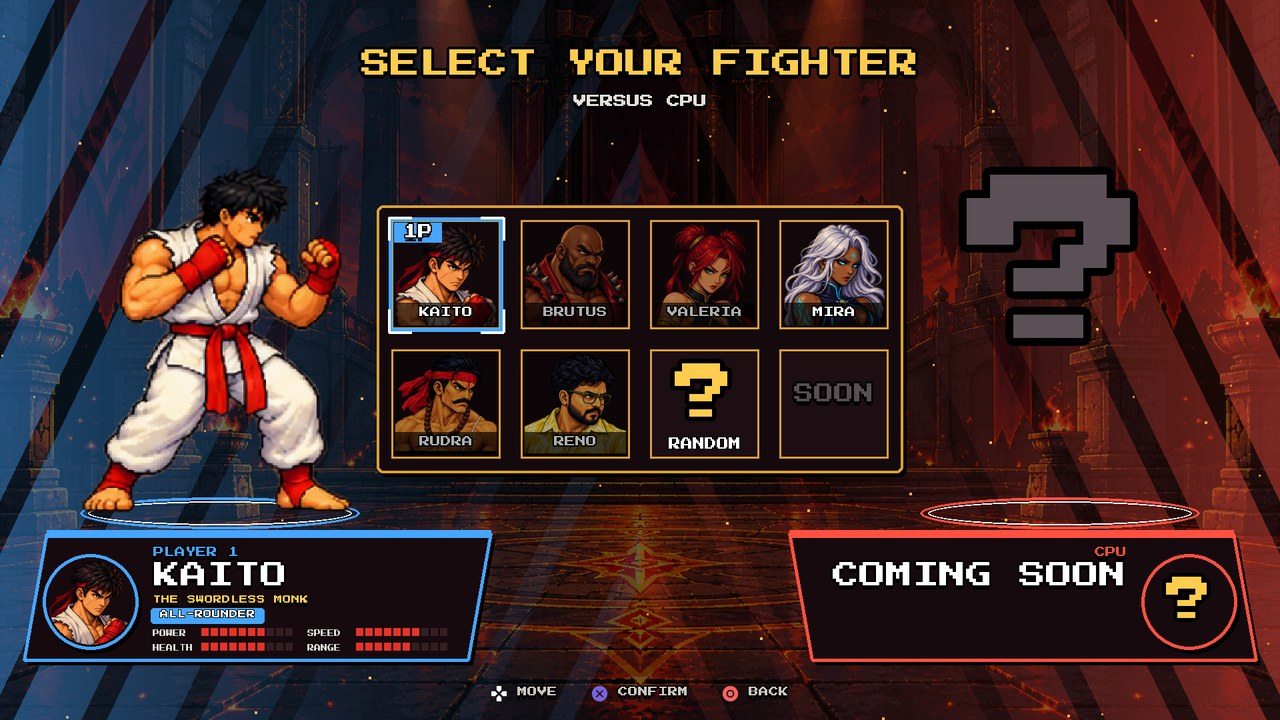
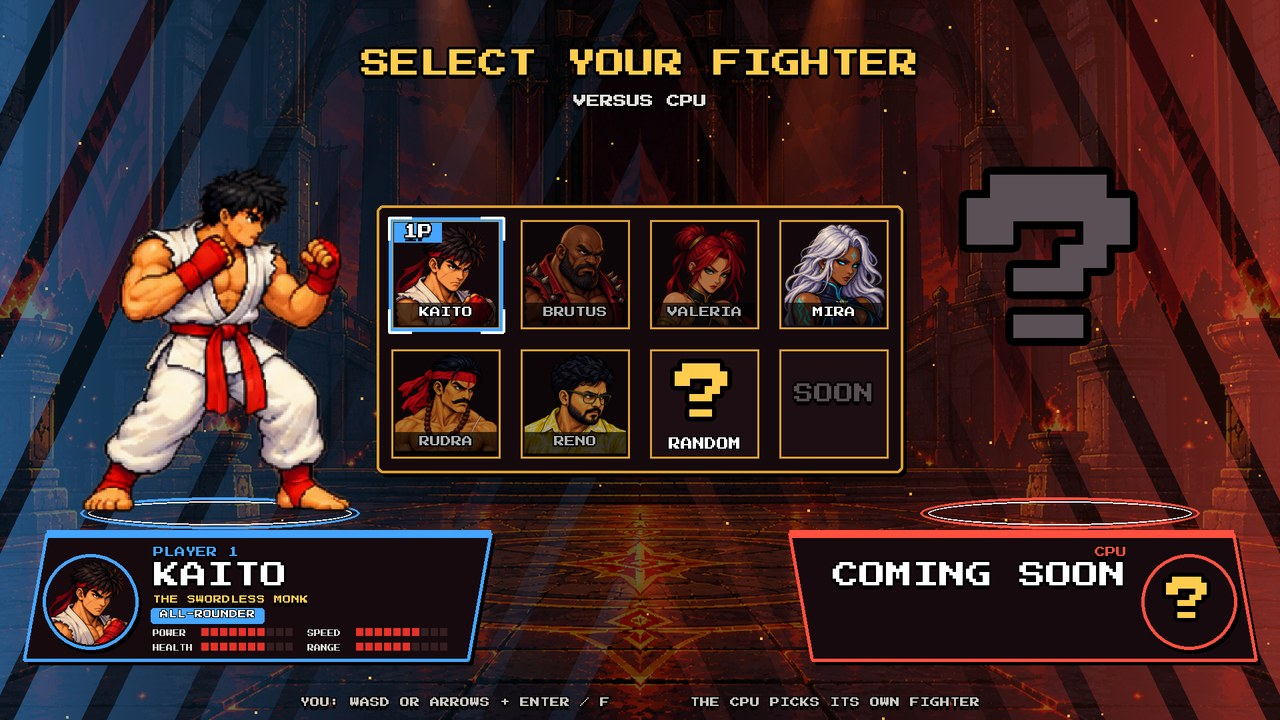
feat: add auto-dependency installer, self-healing asset downloader, clean controller-free screenshots, and comprehensive release details

Changed region(s): [[0.2188, 0.9472, 0.7812, 1.0]]

diff --git a/ember/downloader.py b/ember/downloader.py
@@ -1,0 +1,110 @@
+"""Asset recovery and dependency check for Ember Tournament.
+If required data assets or dependencies are missing (e.g. user moved .exe standalone
+or cloned without assets), this module automatically recovers and downloads them.
+"""
+import os
+import sys
+import urllib.request
+import zipfile
+import tempfile
+
+
+RELEASE_ZIP_URL = "https://github.com/skrehanahamed/EmberTournament/releases/download/latest/EmberTournament-Windows-x64.zip"
+FALLBACK_REPO_ZIP = "https://github.com/skrehanahamed/EmberTournament/archive/refs/heads/main.zip"
+
+
+def _notify_user(title, message):
+    """Display native message box on Windows or print to terminal."""
+    if sys.platform == "win32":
+        try:
+            import ctypes
+            # MB_OKCANCEL | MB_ICONINFORMATION = 0x1 | 0x40
+            return ctypes.windll.user32.MessageBoxW(0, message, title, 0x1 | 0x40) == 1
+        except Exception:
+            pass
+    print(f"[{title}] {message}")
+    return True
+
+
+def ensure_dependencies():
+    """Ensure runtime dependencies are installed if running from Python source."""
+    try:
+        import pygame
+    except ImportError:
+        print("[Ember Tournament] 'pygame-ce' is required but not installed.")
+        print("[Ember Tournament] Attempting automatic installation via pip...")
+        try:
+            import subprocess
+            subprocess.check_call([sys.executable, "-m", "pip", "install", "pygame-ce"])
+            print("[Ember Tournament] Successfully installed pygame-ce!")
+        except Exception as e:
+            print(f"[Ember Tournament] Automatic installation failed: {e}")
+            print("Please run: pip install pygame-ce")
+
+
+def ensure_assets(data_dir):
+    """Verify that the data directory and key assets exist. If not, auto-download them."""
+    marker = os.path.join(data_dir, "story.json")
+    if os.path.exists(data_dir) and os.path.exists(marker):
+        return data_dir
+
+    target_dir = os.path.dirname(data_dir)
+    if not os.access(target_dir, os.W_OK):
+        target_dir = os.path.dirname(sys.executable) if getattr(sys, "frozen", False) else os.getcwd()
+
+    proceed = _notify_user(
+        "Ember Tournament - Missing Assets",
+        "Required game data assets were not found in this folder.\n\n"
+        "Ember Tournament will now automatically download and extract the required assets from GitHub.\n\n"
+        "Click OK to begin automatic download."
+    )
+    if not proceed:
+        return data_dir
+
+    print("[Ember Tournament] Downloading game assets from GitHub...")
+    temp_zip = os.path.join(tempfile.gettempdir(), "ember_assets_temp.zip")
+
+    urls = [RELEASE_ZIP_URL, FALLBACK_REPO_ZIP]
+    download_success = False
+
+    for url in urls:
+        try:
+            print(f"[Ember Tournament] Connecting to {url}...")
+            urllib.request.urlretrieve(url, temp_zip)
+            download_success = True
+            break
+        except Exception as err:
+            print(f"[Ember Tournament] Download attempt failed from {url}: {err}")
+
+    if not download_success or not os.path.exists(temp_zip):
+        _notify_user("Ember Tournament - Download Error", "Failed to download assets automatically. Please verify your internet connection or download EmberTournament-Windows-x64.zip manually from GitHub.")
+        return data_dir
+
+    print("[Ember Tournament] Extracting assets...")
+    try:
+        with zipfile.ZipFile(temp_zip, "r") as zf:
+            for member in zf.namelist():
+                # Extract any data/ files into the target data directory
+                if "data/" in member:
+                    parts = member.split("data/")
+                    rel_path = parts[-1]
+                    if not rel_path:
+                        continue
+                    out_path = os.path.join(data_dir, rel_path)
+                    if member.endswith("/"):
+                        os.makedirs(out_path, exist_ok=True)
+                    else:
+                        os.makedirs(os.path.dirname(out_path), exist_ok=True)
+                        with open(out_path, "wb") as f_out, zf.open(member) as f_in:
+                            f_out.write(f_in.read())
+        print(f"[Ember Tournament] Assets successfully restored to {data_dir}!")
+    except Exception as e:
+        print(f"[Ember Tournament] Extraction error: {e}")
+    finally:
+        if os.path.exists(temp_zip):
+            try:
+                os.remove(temp_zip)
+            except OSError:
+                pass
+
+    return data_dir

diff --git a/main.py b/main.py
@@ -1,4 +1,22 @@
 #!/usr/bin/env python3
+"""Ember Tournament - Main Entry Point.
+Automatically verifies runtime dependencies and game assets, recovering missing files if needed.
+"""
+import sys
+
+# 1. Verify runtime dependencies
+try:
+    import pygame
+except ImportError:
+    from ember.downloader import ensure_dependencies
+    ensure_dependencies()
+
+# 2. Verify game assets
+from ember.constants import DATA
+from ember.downloader import ensure_assets
+ensure_assets(DATA)
+
+# 3. Launch game
 from ember.app import main
 
 if __name__ == "__main__":

diff --git a/README.md b/README.md
@@ -32,25 +32,44 @@
 
 ## Releases and Downloads
 
-Pre-compiled Windows builds are automatically compiled and published through GitHub Actions. Python installation is not required to play.
+Pre-compiled Windows binaries are automatically packaged and published via GitHub Actions. Python installation is not required.
 
-* **Latest Release**: [Download from GitHub Releases](https://github.com/skrehanahamed/EmberTournament/releases/latest)
-* **All Releases & Build Artifacts**: [View All Releases](https://github.com/skrehanahamed/EmberTournament/releases)
+* **Latest Release**: [Download Ember Tournament (Latest Build)](https://github.com/skrehanahamed/EmberTournament/releases/latest)
+* **All Releases and Changelog**: [View All Releases](https://github.com/skrehanahamed/EmberTournament/releases)
 
-### Available Release Files
+### Available Packages
 
-| File | Description | Recommended For |
+| Package | Description | Recommended For |
 | :--- | :--- | :--- |
-| **`EmberTournament-Windows-x64.zip`** | Complete standalone package with game executable, assets, audio, and dependencies. | **Recommended**: Extract and double-click `EmberTournament.exe` to play. |
-| **`EmberTournament.exe`** | Standalone Windows application binary. | Direct executable file. |
+| **`EmberTournament-Windows-x64.zip`** | Full standalone package. Contains `EmberTournament.exe`, internal dependencies, stages, character art, and audio files. | **Recommended**: Extract and double-click `EmberTournament.exe` to play immediately. |
+| **`EmberTournament.exe`** | Standalone executable binary with built-in asset recovery. | Direct executable file. If assets are not present in the local directory, it will prompt to automatically download them from GitHub on first launch. |
+
+### System Requirements
+
+| Specification | Minimum Requirement | Recommended |
+| :--- | :--- | :--- |
+| **Operating System** | Windows 10 (64-bit) | Windows 10 / Windows 11 (64-bit) |
+| **Processor** | Intel Core i3 / AMD Ryzen 3 | Intel Core i5 / AMD Ryzen 5 |
+| **Memory** | 4 GB RAM | 8 GB RAM |
+| **Graphics** | DirectX 11 / OpenGL 3.3 compatible | Dedicated GPU or modern integrated graphics |
+| **Storage** | 350 MB available space | 500 MB available space |
+| **Audio** | Any DirectX-compatible sound output | Stereo speakers / headphones |
+| **Input Devices** | Standard Keyboard | PS5 DualSense / Xbox Controller |
 
 ### How to Install and Play on Windows
 
 1. Download **`EmberTournament-Windows-x64.zip`** from the [Latest Release](https://github.com/skrehanahamed/EmberTournament/releases/latest).
-2. Right-click the downloaded `.zip` file and select **Extract All...**.
-3. Open the extracted folder and double-click **`EmberTournament.exe`** to launch the game.
+2. Right-click the `.zip` archive and select **Extract All...**.
+3. Open the extracted folder and double-click **`EmberTournament.exe`** to start playing.
+4. *(Optional)* Plug in a PlayStation or Xbox controller — it will be detected automatically with full button prompt mapping and rumble feedback.
 
-You can also download individual build artifacts directly from completed runs in the [Actions tab](https://github.com/skrehanahamed/EmberTournament/actions).
+> **Windows SmartScreen Note**: Because this is an indie open-source game without an expensive corporate signing certificate, Windows Defender SmartScreen may display a "Windows protected your PC" pop-up. Simply click **"More info"** and then **"Run anyway"**.
+
+### Automatic Asset Recovery
+
+If you ever move `EmberTournament.exe` to a new folder without its `data/` assets, or if any core files are missing, the built-in self-healing system will automatically detect the missing components, prompt for confirmation, and download them directly from GitHub Releases without requiring a full manual re-download.
+
+You can also download build artifacts directly from the [Actions tab](https://github.com/skrehanahamed/EmberTournament/actions).
 
 ---
 
